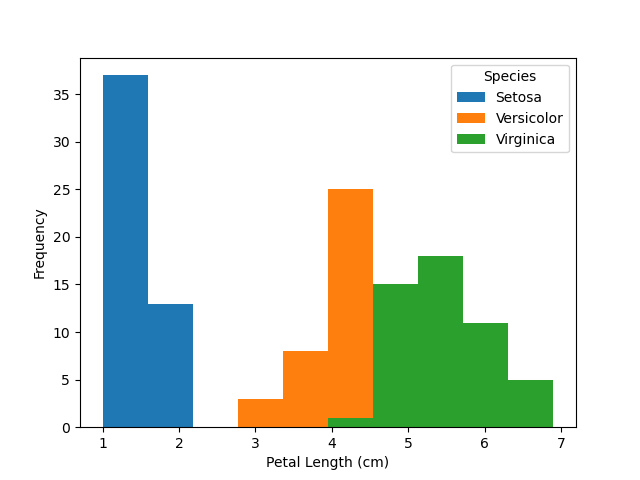
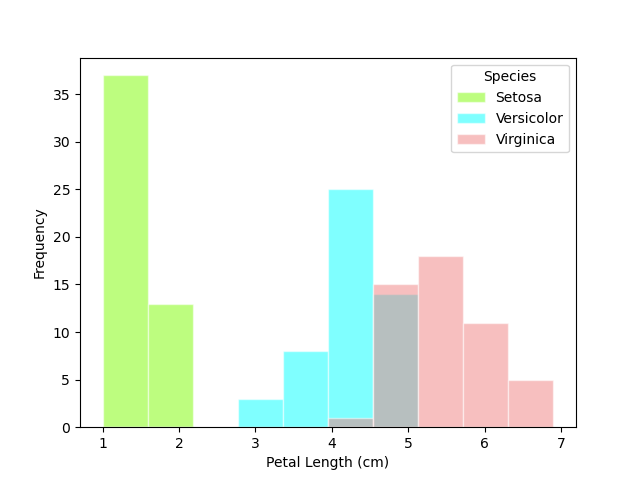
histogram formatting

Changed region(s): [[0.375, 0.375, 0.875, 0.9062], [0.1562, 0.1562, 0.3125, 0.9062], [0.6875, 0.1875, 0.7812, 0.3125]]

diff --git a/analysis.py b/analysis.py
@@ -62,25 +62,25 @@ petal_width = df["petal_width"].to_numpy()
 
 #Saving histograms to PNG files- https://stackoverflow.com/questions/9622163/save-plot-to-image-file-instead-of-displaying-it
 #Grouping by species- https://www.geeksforgeeks.org/how-to-fill-color-by-groups-in-histogram-using-matplotlib/
-df_upper.pivot(columns='Species', values='Sepal Length').plot.hist()
+df_upper.pivot(columns='Species', values='Sepal Length').plot.hist(alpha = .5, color = ["lawngreen", "cyan", "lightcoral"], edgecolor = "white")
 plt.xlabel("Sepal Length (cm)")
 plt.ylabel("Frequency")
 plt.savefig('sepal_length.png')
 plt.close()
 
-df_upper.pivot(columns='Species', values='Sepal Width').plot.hist()
+df_upper.pivot(columns='Species', values='Sepal Width').plot.hist(alpha = .5, color = ["lawngreen", "cyan", "lightcoral"], edgecolor = "white")
 plt.xlabel("Sepal Width (cm)")
 plt.ylabel("Frequency")
 plt.savefig('sepal_width.png')
 plt.close()
 
-df_upper.pivot(columns='Species', values='Petal Length').plot.hist()
+df_upper.pivot(columns='Species', values='Petal Length').plot.hist(alpha = .5, color = ["lawngreen", "cyan", "lightcoral"], edgecolor = "white")
 plt.xlabel("Petal Length (cm)")
 plt.ylabel("Frequency")
 plt.savefig('petal_length.png')
 plt.close()
 
-df_upper.pivot(columns='Species', values='Petal Width').plot.hist()
+df_upper.pivot(columns='Species', values='Petal Width').plot.hist(alpha = .5, color = ["lawngreen", "cyan", "lightcoral"], edgecolor = "white")
 plt.xlabel("Petal Width (cm)")
 plt.ylabel("Frequency")
 plt.savefig('petal_width.png')
